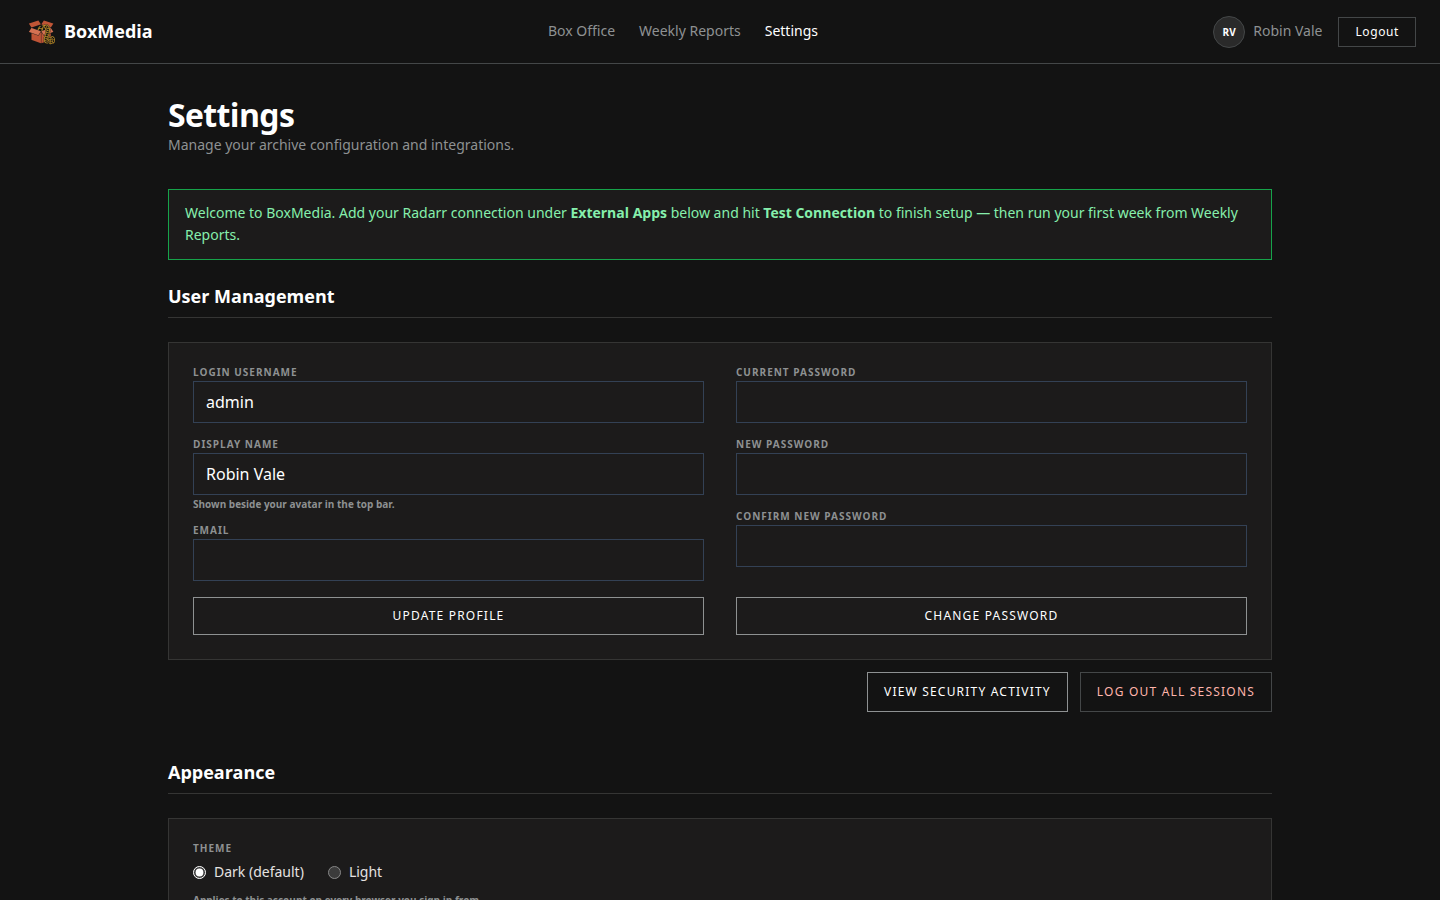
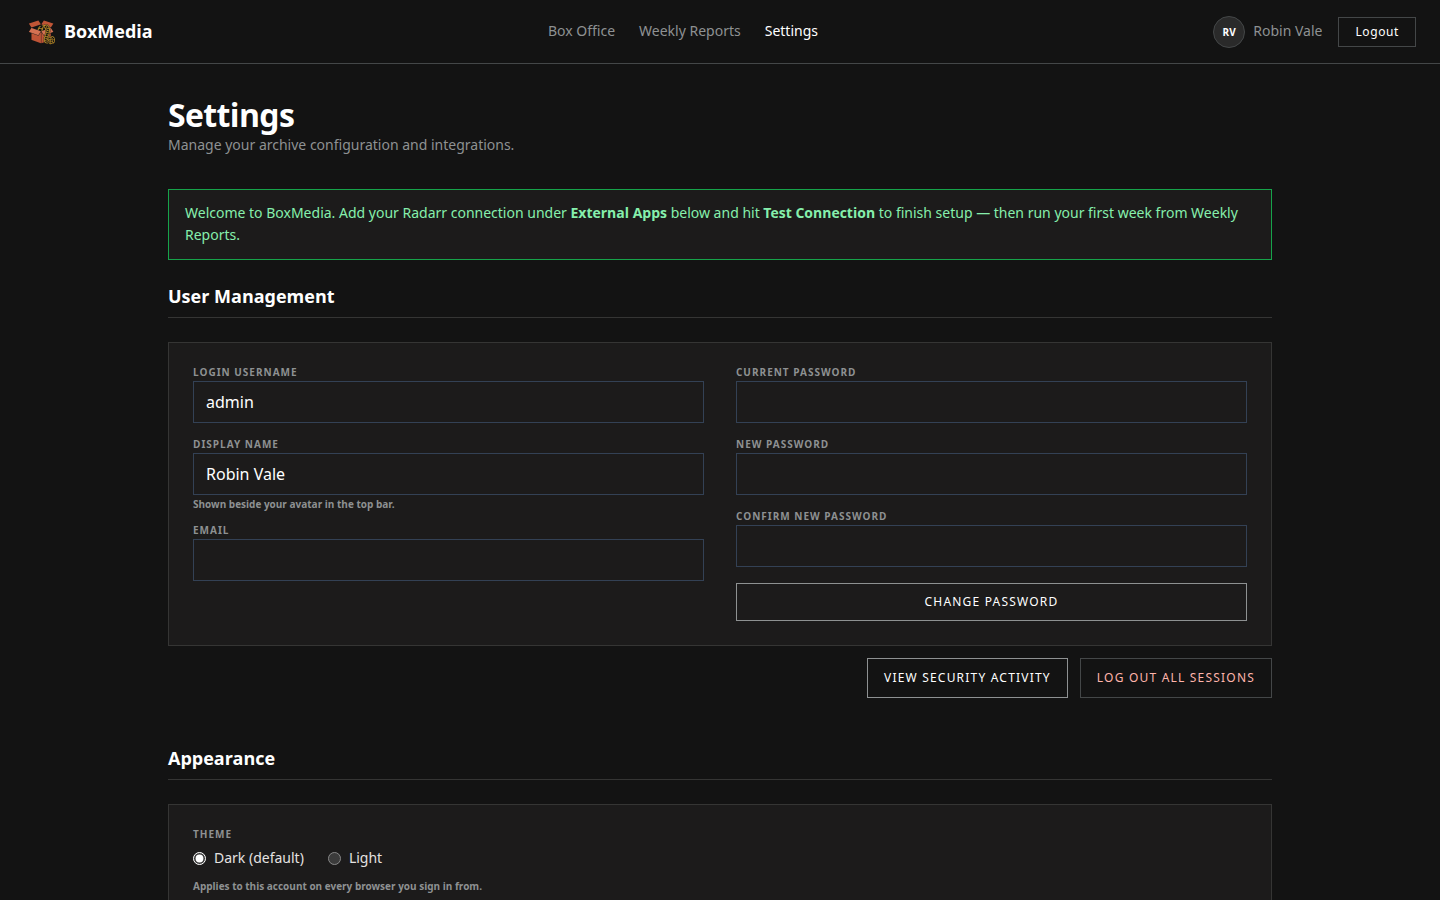
docs: the README describes the app as it is now, on measured numbers
The intro still described a top-10 scrape and a weekly poll, which has not been
the whole story for six releases. It now names what actually happens: the
four-a-week cadence, IMDb-id confirmation of titles Radarr cannot recognise,
the Plex/Jellyfin hint, multi-Radarr targeting with live progress, thirteen
regions in the currency the source prints, and verifiable encrypted backups.

Every resource figure re-measured rather than edited. The image transfers at
37 MB (not 39), site-packages are 56 MB (not 64), the app is 1.1 MB and the
stylesheet 35 KB. /data is re-tabulated from a real twenty-week install: 15 KB
per report, 36 KB per poster, 25 MB per backup archive — the poster and backup
figures had roughly doubled since v0.1.0 and the old table would have
under-sold the disk to anyone planning for it. The old "13 weekly runs" numbers
came from v0.1.0 and are simply gone.

First-run gains the media server step and the one Save bar. Security posture
names the media-server credential as encrypted at rest, says the integration is
read-only, and says the credential is a header rather than a URL.

Screenshots regenerated from a seeded fictional install, plus a new one of the
Media Server card — the previous set predates it and the save bar.

diff --git a/README.md b/README.md
@@ -1,15 +1,34 @@
 # BoxMedia
 
 Self-hosted automation that surfaces **currently trending, commercially
-successful films** for your home library. Each week it scrapes the Box Office
-Mojo top‑10 and matches it against your Radarr library, then gives you a one‑click
+successful films** for your home library. It scrapes the Box Office Mojo weekly
+chart and matches it against your Radarr library, then gives you a one‑click
 review page to add the missing hits at the quality you choose — nothing is ever
 sent to Radarr without you. It complements request-based tools (Overseerr and
 friends): mainstream box-office hits are surfaced for review, while niche requests
 still go through the normal workflow.
 
-Single admin, dark "Obsidian" UI, runs behind a reverse proxy on a NAS or small
+Single admin, dark or light UI, runs behind a reverse proxy on a NAS or small
 home server. It never downloads anything itself — it tells Radarr what to fetch.
+
+**What it does beyond that:**
+
+- **Follows the source's rhythm.** Mojo posts an estimate and settles it over the
+  following days, so the unattended check runs four times a week (Sun · Mon · Wed ·
+  Fri) and keeps only what actually changed. A week already recorded is not
+  re-saved. A fixed interval is still selectable.
+- **Knows the film, not just the title.** When Radarr cannot recognise a chart
+  title, BoxMedia reads the IMDb id off Mojo's own release page and matches on
+  that. What it still cannot identify says **"Best guess — verify"** and offers a
+  one-click fix, which then applies to every week that title charted.
+- **Tells you what you already have.** Connect **Plex or Jellyfin** (read-only)
+  and a title already on your media server says so before you add a second copy.
+- **Several Radarrs, honestly.** Add to whichever instance you choose, see which
+  one holds each film, upgrade a copy in place, and watch real download progress
+  on every page it appears.
+- **Thirteen regions.** Domestic plus twelve regional charts, with grosses shown
+  in whatever currency the source actually prints — never converted, never mixed.
+- **Encrypted backups** you can verify, restore, or hand to your own 3‑2‑1.
 
 ## What it looks like
 
@@ -20,10 +39,14 @@ home server. It never downloads anything itself — it tells Radarr what to fetc
 | ![Weekly report — the chart matched against your library](docs/screenshots/weekly-report.png) | ![Library view](docs/screenshots/dashboard.png) |
 | ![Weekly reports and the month's leaderboard](docs/screenshots/reports.png) | ![Settings](docs/screenshots/settings.png) |
 
+![Media Server — connect Plex or Jellyfin, read-only](docs/screenshots/media-server.png)
+
 ## Requirements & resource use
 
-You need Docker with Compose and a reachable Radarr instance. The image is
-published for **amd64 and arm64** — see [Supported platforms](#supported-platforms).
+You need Docker with Compose and a reachable Radarr instance. A media server —
+**Plex or Jellyfin** — is optional and read-only; connect one and the cards tell
+you when a title is already on it. The image is published for **amd64 and
+arm64** — see [Supported platforms](#supported-platforms).
 
 ### Image
 
@@ -31,48 +54,52 @@ published for **amd64 and arm64** — see [Supported platforms](#supported-platf
 |---|---|
 | Image | `ghcr.io/aiulian25/boxmedia` |
 | On disk after pull | **165 MB** |
-| Transferred over the network (compressed layers) | **39 MB** |
+| Transferred over the network (compressed layers) | **37 MB** |
 | Base | `gcr.io/distroless/python3-debian12:nonroot` |
 
-The bulk is the Python runtime and dependencies (64 MB of site‑packages, 7 MB
-interpreter); the application itself is ~1 MB and the stylesheet 57 KB.
+The bulk is the Python runtime and dependencies (56 MB of site‑packages, plus the
+interpreter); the application itself is 1.1 MB and the stylesheet 35 KB.
 
 ### Runtime
 
-Measured on a running v0.1.0 container with two Radarr connections and 13 stored
-weeks. `docker compose` already caps the container at **1.0 CPU / 256 MB**.
+Measured on a running container with two Radarr connections and 20 stored weeks.
+`docker compose` already caps the container at **1.0 CPU / 256 MB**.
 
 | | measured | limit in compose |
 |---|---|---|
-| Memory, idle | **68 MiB** | 256 MiB |
-| Memory, peak | **122 MiB** (at startup) | 256 MiB |
-| CPU, idle | **0.8%** of one core | 1.0 core |
+| Memory, idle | **55–90 MiB** | 256 MiB |
+| Memory, peak | **~122 MiB** (at startup) | 256 MiB |
+| CPU, idle | **&lt;0.1%** of one core | 1.0 core |
 | Startup to serving | **1.6 s** | — |
-| Processes + threads | 12 | — |
+| Processes | 6 | — |
 
 Memory is dominated by the Python interpreter and imports, not by the workload:
-building a backup archive in memory — 7.2 MB of config, history, logs and cached
-posters — did not move the peak at all. The weekly run parses one HTML page and
-makes a handful of Radarr calls, so the busy path costs little more than idle.
+building a backup archive in memory did not move the peak at all. The spread
+above is a fresh install versus one holding twenty weeks and a warm poster cache.
 
-Network use is negligible and mostly LAN: one chart page a week, a poster or
+Network use is negligible and mostly LAN. Per week: four chart pages on the
+default cadence (the fetch that finds nothing new writes nothing), a poster or
 headshot on first sight of a title, and Radarr library calls on each page load.
+A connected media server is read at most once every 15 minutes, and only while
+someone is looking at a page.
 
 ### Disk
 
-`/data` after 13 weekly runs:
+`/data` after 20 weekly runs with a chart depth of 10 and two Radarr connections:
 
 | area | size | grows by |
 |---|---|---|
-| `config/` | < 1 MB | fixed — a few small YAML files |
-| `history/` | 74 KB | ~6 KB per weekly report, capped at 50 reports |
-| `logs/` | 0.6 MB | audit trail plus any saved scrape snapshots |
-| `cache/` | 7.1 MB | ~14 KB per poster/headshot, only for titles you have seen |
-| `backups/` | varies | one archive ≈ the four areas above (7 MB today) × how many you keep |
+| `config/` | < 1 MB | fixed — a few small YAML/JSON files |
+| `history/` | 0.3 MB | ~15 KB per weekly report, capped by your retention setting |
+| `logs/` | 20 KB | audit trail plus any saved scrape snapshots |
+| `cache/` | 13.4 MB | ~36 KB per poster/headshot, only for titles you have seen |
+| `backups/` | 75 MB | one archive ≈ everything above (25 MB here) × how many you keep |
 
-Backups dominate long‑term disk, and their retention setting bounds them: at the
-default of 10 kept archives, roughly 70 MB today. Reports prune themselves to the
-newest 50 at the end of every run, so `history/` plateaus on its own.
+Backups dominate long‑term disk, and their retention setting bounds them. Reports
+prune themselves to your retained count at the end of every run, so `history/`
+plateaus on its own. A connected media server adds one more cache file — the
+library snapshot, a few hundred KB for a large library, refreshed rather than
+accumulated.
 
 The poster cache is the one area with no automatic ceiling. Individual downloads
 are capped at 5 MB, but the directory grows with every distinct title and cast
@@ -147,15 +174,23 @@ Then point a reverse proxy (nginx/Traefik/Caddy/Pangolin/Cloudflare) at
    docker compose logs boxmedia | grep -A2 "temporary password"
    ```
 2. Log in as `admin` and set a new password (required before anything else).
-3. You'll land on **Settings** — add your Radarr connection (address + API key)
-   and click **Test Connection**, then set your Radarr **defaults** (at minimum a
-   quality profile and a default root folder) used when you add a title.
-4. The weekly sync runs on its own to build a review report; hit **Run Now** to
-   refresh it immediately. Titles are added to Radarr only when you click **Add**.
+3. You'll land on **Settings** — add your Radarr connection (address + API key),
+   press **Test Connection** to check it before saving, then choose what that
+   connection adds as (a quality profile and a root folder). Add as many Radarrs
+   as you run; one is the **primary** the weekly check reads.
+4. Optionally connect a **media server** under Media Server — pick Plex or
+   Jellyfin, paste the address and its token/API key, and Test it. BoxMedia only
+   ever reads it.
+5. The weekly check runs on its own to build a review report; hit **Run current
+   week** to build one immediately. Titles are added to Radarr only when you
+   click **Add**.
+
+Settings has one **Save Changes** bar for the whole page — edit any cards, then
+save them together (or discard).
 
 Configuration lives entirely in [`.env.example`](.env.example) (app-level
-secrets/infra). Radarr connections are managed in the UI and encrypted at rest —
-they never go in `.env`.
+secrets/infra). Radarr and media-server credentials are managed in the UI and
+encrypted at rest — they never go in `.env`.
 
 ## Backups & disaster recovery
 
@@ -251,15 +286,19 @@ Afterwards, verify with Settings → **Test Connection**.
 
 - Argon2id password hashing; forced first-run password change; login
   rate-limiting with lockout.
-- Radarr API keys AES‑256‑GCM encrypted at rest; backups encrypted with the key
-  stored apart from the data.
+- Radarr API keys and the media-server token/API key AES‑256‑GCM encrypted at
+  rest; backups encrypted with the key stored apart from the data.
 - Strict CSP (`default-src 'self'`, no inline scripts/styles), HSTS behind TLS,
   same-origin enforcement + SameSite=Strict cookies, structured audit logging.
 - Distroless runtime image: non-root (UID 65532), read-only root filesystem, all
   capabilities dropped, `no-new-privileges`, no shell or package manager, base
   images pinned by digest, dependencies hash-pinned.
-- TLS certificate validation on all outbound Radarr calls; point `BM_TLS_CA_FILE`
-  at a CA bundle for a self-signed home Radarr rather than disabling verification.
+- TLS certificate validation on all outbound calls; point `BM_TLS_CA_FILE` at a
+  CA bundle for a self-signed home Radarr or media server rather than disabling
+  verification.
+- The media server integration is **read-only**: two GET endpoints and no others,
+  and its credential travels as a header, never in a URL where proxy logs would
+  keep it.
 
 ## Development
 
